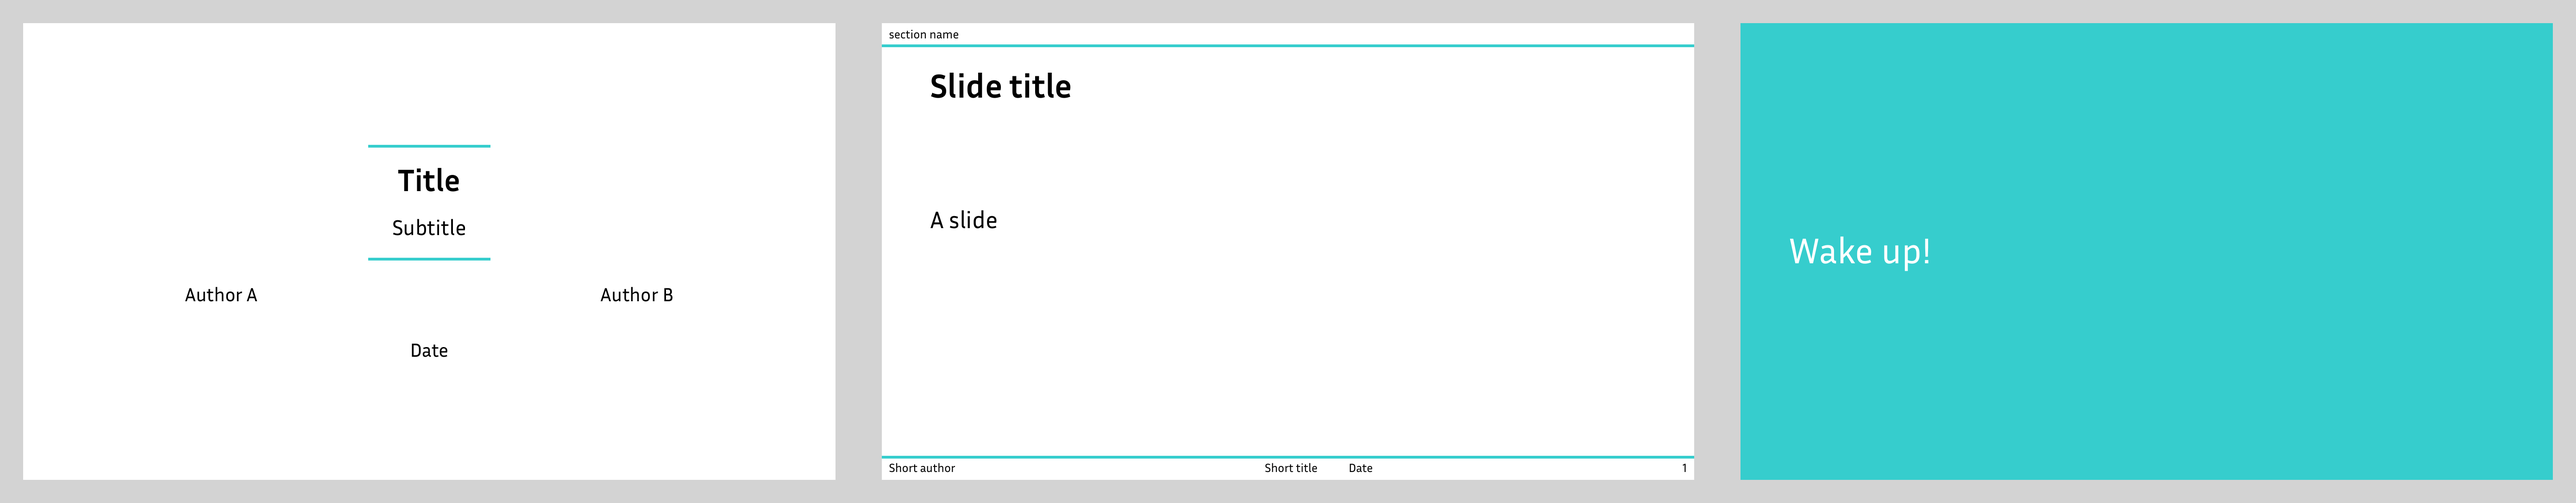
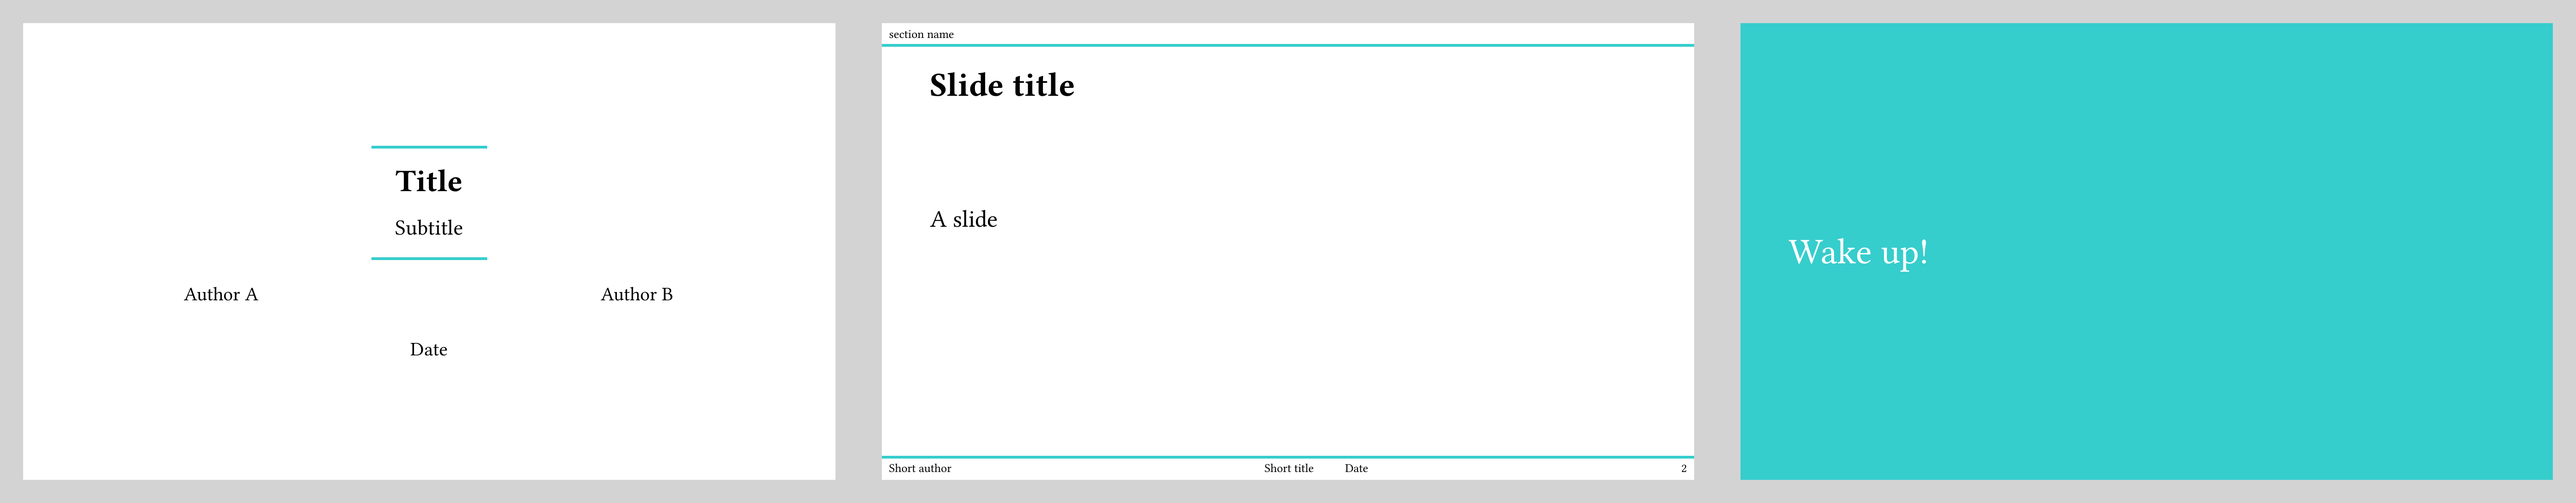
Adapt examples and book

diff --git a/book/src/config.md b/book/src/config.md
@@ -20,19 +20,19 @@ don't have to) provide the following arguments in the form of
 - `date`: some kind of spatio-temporal information about when or where your talk
   takes place
 - `theme`: set a theme other than the default, see [this section](./themes.html)
-- `typography`: an optional dictionary that can have any of the following entries:
-  - `paper`: this value is propagated to a `#set page(paper: ...)` command, use
-     if to specify another paper size than the default `"presentation-16-9"`
-     (probably only `"presentation-4-3"` makes sense, though)
-  - `text-size`: the baseline font size of text on your slides, headings etc.
-    will have sizes relative to that (default is `25pt`)
-  - `text-font`: the font to use for text on your slides, you can also specify
-    an array of fonts
-    ([see the Typs docs](https://typst.app/docs/reference/text/text/#parameters--font)).
-    The default array is `( "Inria Sans", "Libertinus Sans", "Latin Modern Sans" )`.
-  - `math-font`: similar to `text-font` above, but for math typesetting.
-    The default array is `( "GFS Neohellenic Math", "Fira Math", "TeX Gyre Pagella Math", "Libertinus Math" )`.
+- `aspect-ratio`: either `"16-9"` (default) or `"4-3"` to specify if you want
+  PDF pages with aspect ratio 16:9 or 4:3
 
 The data you provide in this configuration is propagated to the
 [theme](./themes.html) which then decides how to display all that.
 
+## A note on the font size
+Typst-slides will use a default font size of 25 pt.
+If you want to use another one, specify that _after_ the template show-rule, i.e.:
+```typ
+#show: slides.with(
+  // ...
+)
+#set text(size: 20pt)
+```
+It is overwritten if you put the `#set text(...)` before.

diff --git a/README.md b/README.md
@@ -19,6 +19,8 @@ This is a template for creating slides in [Typst](https://typst.app/).
     date: "March 2023",
 )
 
+#set text(font: "Inria Sans", size: 25pt)
+
 #slide(theme-variant: "title slide")
 
 #new-section("My section name")
